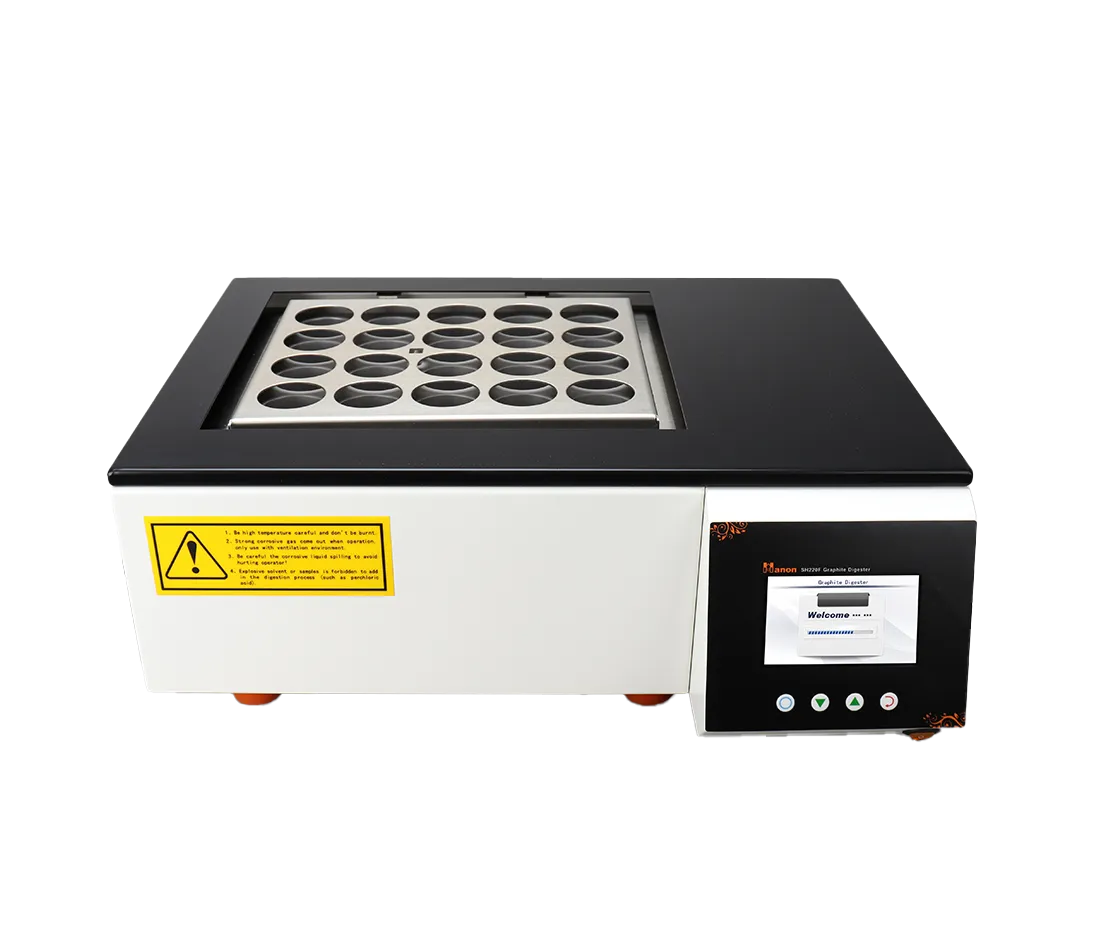
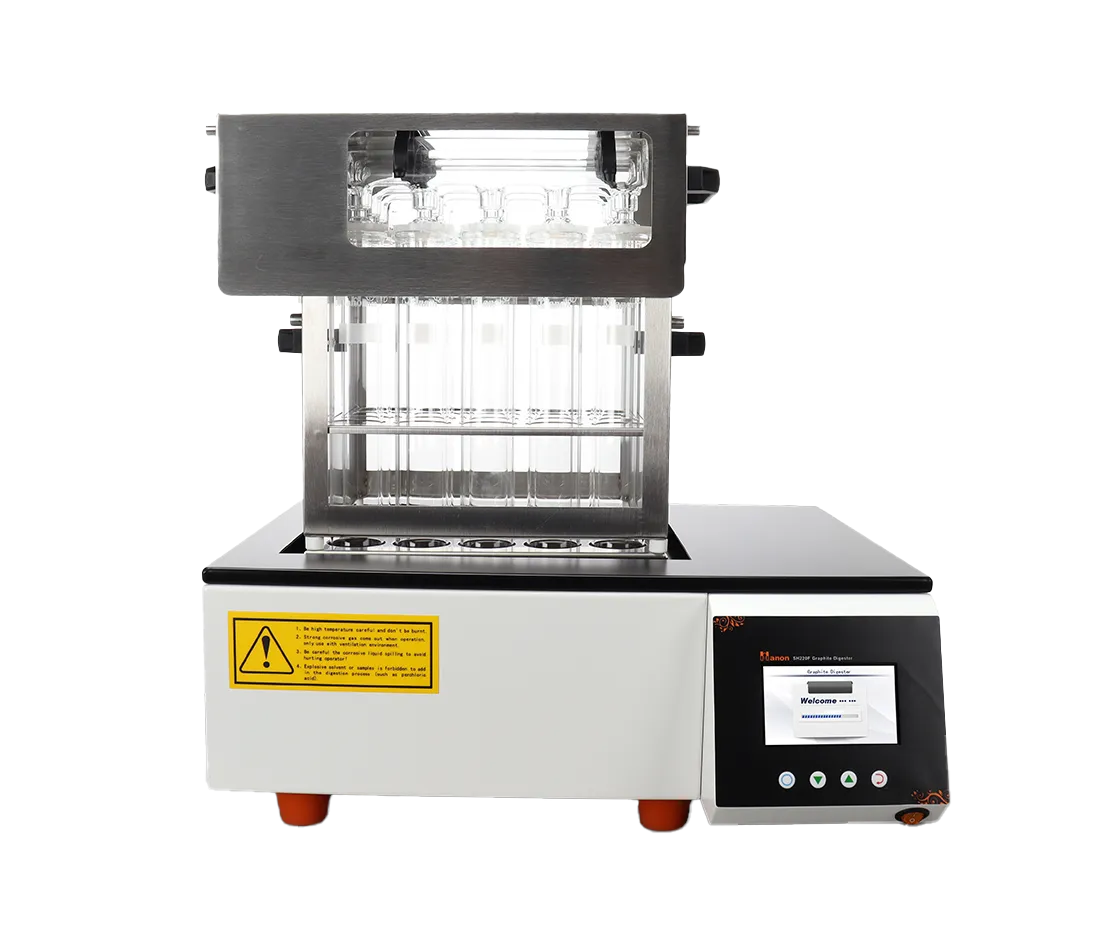
feat: cambia portada de SH220F a Imagen 1 e incluye la Imagen 3 faltante en la galeria de 4 fotos

diff --git a/src/app/productos/[slug]/page.tsx b/src/app/productos/[slug]/page.tsx
@@ -197,9 +197,10 @@ export default async function ProductDetailPage({
       ]
     : product.slug === "hanon-sh220f"
     ? [
-        { src: "/productos/hanon-sh220f/frontal.webp", alt: "Vista frontal del digestor Kjeldahl de bloque de grafito Hanon SH220F" },
-        { src: "/productos/hanon-sh220f/imagen-3.png", alt: "Detalle de los tubos de digestión de borosilicato graduados del digestor SH220F" },
-        { src: "/productos/hanon-sh220f/imagen-4.png", alt: "Vista en detalle del bloque de grafito calefactor del digestor SH220F" }
+        { src: "/productos/hanon-sh220f/imagen-1.png", alt: "Vista principal de digestión del digestor de bloque de grafito Hanon SH220F" },
+        { src: "/productos/hanon-sh220f/imagen-2.png", alt: "Detalle de los tubos de digestión de borosilicato graduados del digestor SH220F" },
+        { src: "/productos/hanon-sh220f/imagen-3.png", alt: "Vista en detalle del bloque de grafito calefactor del digestor SH220F" },
+        { src: "/productos/hanon-sh220f/imagen-4.webp", alt: "Vista frontal completa del digestor Kjeldahl Hanon SH220F" }
       ]
     : [];
 

diff --git a/src/lib/mock-products.ts b/src/lib/mock-products.ts
@@ -563,7 +563,7 @@ export const mockProducts: Product[] = [
       "Bloque de calefacción de grafito de alta pureza",
       "Control de temperatura PID con 10 programas",
     ],
-    imageUrl: "/productos/hanon-sh220f/frontal.webp",
+    imageUrl: "/productos/hanon-sh220f/imagen-1.png",
     tags: ["Kjeldahl", "nitrogeno", "proteina", "digestor", "hanon", "preparacion", "grafito", "quimica", "digestión"],
     relatedProducts: ["hanon-k9840", "hanon-k9860", "hanon-k1160"],
     detail: {

diff --git a/src/content/productos.ts b/src/content/productos.ts
@@ -139,7 +139,7 @@ export const productosData: Producto[] = [
     ],
     fotos: {
       frontal: {
-        src: "/productos/hanon-sh220f/frontal.webp",
+        src: "/productos/hanon-sh220f/imagen-1.png",
         alt: "Fotografía frontal del digestor Kjeldahl de bloque de grafito Hanon SH220F",
       },
       autosampler: {

diff --git a/.agent-log/sessions.md b/.agent-log/sessions.md
@@ -1748,3 +1748,12 @@
   1. Se modificó el arreglo `CONSUMIBLES_BY_SLUG["hanon-sh220f"]` removiendo los accesorios genéricos o de galería, dejando únicamente el "Tubo de sellado".
 - Verificación: `npm run build` OK, compilación limpia.
 - Archivos principales tocados: src/components/products/product-detail-tabs.tsx, .agent-log/sessions.md.
+
+### 2026-07-09 - Antigravity - actualización de portada y galería completa del digestor SH220F
+- Que se hizo: se actualizó la imagen de portada de SH220F para utilizar `imagen-1.png` (proveniente de Imagen 1.png del catálogo) y se amplió el listado de imágenes de la galería para incluir las 4 imágenes oficiales provistas (imagen-1.png, imagen-2.png, imagen-3.png e imagen-4.webp).
+- Cambios realizados:
+  1. Se reestructuraron las imágenes en `public/productos/hanon-sh220f/` renombrándolas a nombres ordenados y correlativos.
+  2. Se modificó `imageUrl` en `src/lib/mock-products.ts` y la sección de fotos en `src/content/productos.ts` para usar `imagen-1.png` como portada.
+  3. Se actualizó la lógica de `galleryImages` en `src/app/productos/[slug]/page.tsx` para incluir los 4 archivos en la grilla y visor de fotos del producto.
+- Verificación: `npm run build` OK, compilación limpia.
+- Archivos principales tocados: public/productos/hanon-sh220f/, src/lib/mock-products.ts, src/content/productos.ts, src/app/productos/[slug]/page.tsx, .agent-log/sessions.md.
